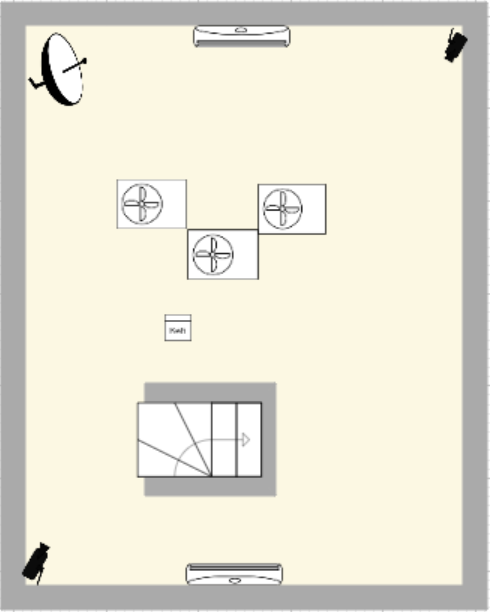
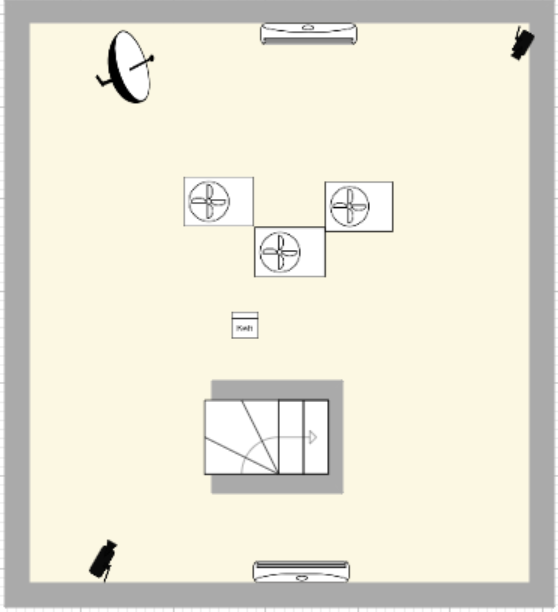
modif nom

diff --git a/lib/preparation/plan/plan.dart b/lib/preparation/plan/plan.dart
@@ -264,10 +264,10 @@ class _PlanState extends State<Plan> {
                   decoration: new BoxDecoration(
                       border: new Border.all(
                           color: Colors.lightBlueAccent,
-                          width: 80.0,
-                          style: BorderStyle.solid),
+                          width: 200.0,
+                          style: BorderStyle.none),
                       image: new DecorationImage(
-                        image: new AssetImage('assets/team/rio.jpg'),
+                        image: new AssetImage('assets/plan/rdc.PNG'),
                       )),
                       
                       
@@ -277,10 +277,10 @@ class _PlanState extends State<Plan> {
                   decoration: new BoxDecoration(
                       border: new Border.all(
                           color: Colors.lightBlueAccent,
-                          width: 80.0,
-                          style: BorderStyle.solid),
+                          width: 200.0,
+                          style: BorderStyle.none),
                       image: new DecorationImage(
-                        image: new AssetImage('assets/team/rio.jpg'),
+                        image: new AssetImage('assets/plan/SOUSSOL.PNG'),
                       )),
                       
                       
